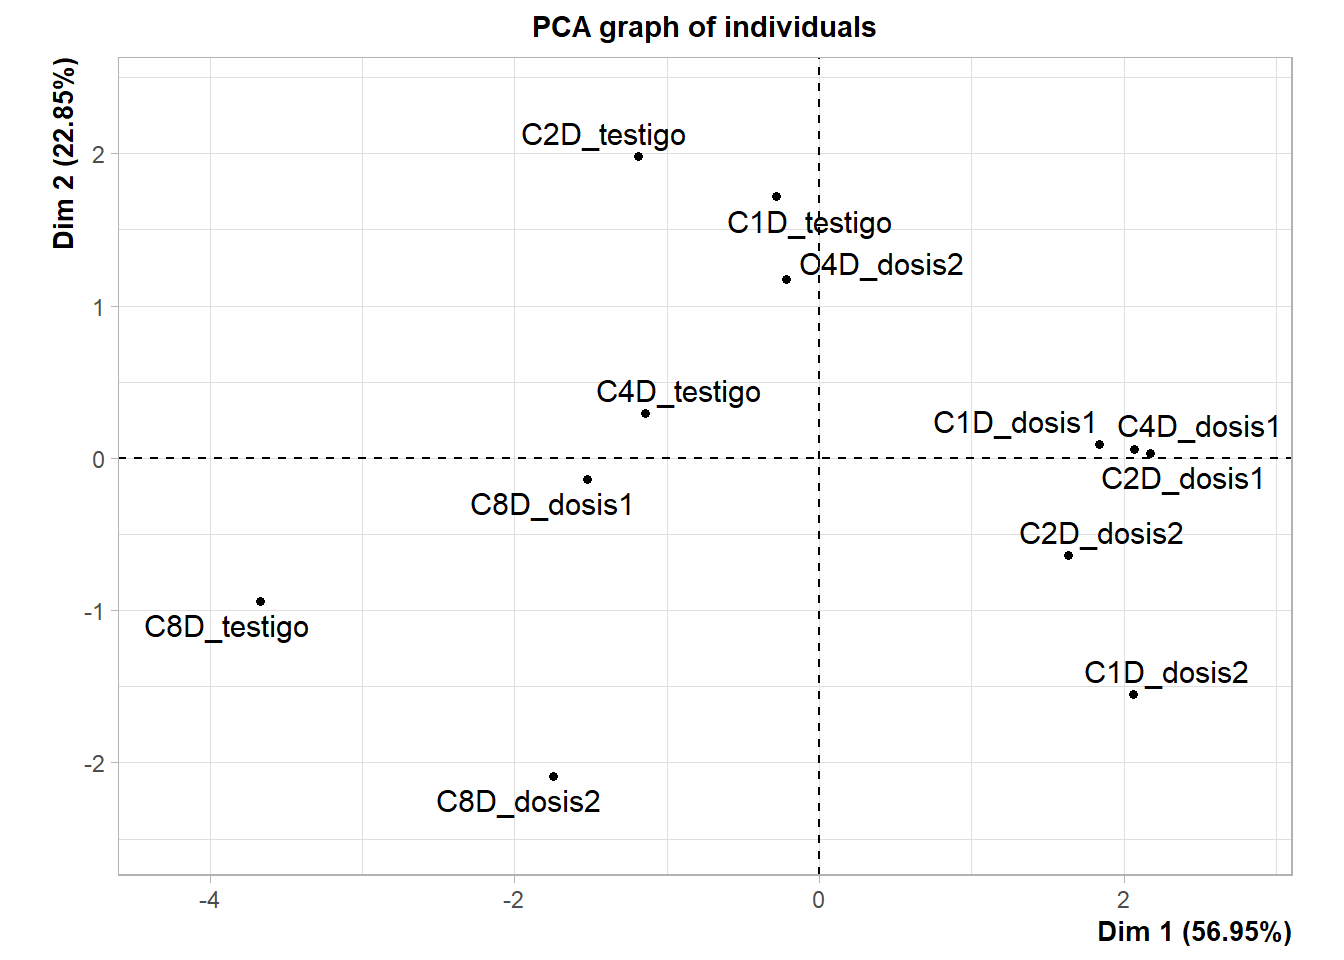
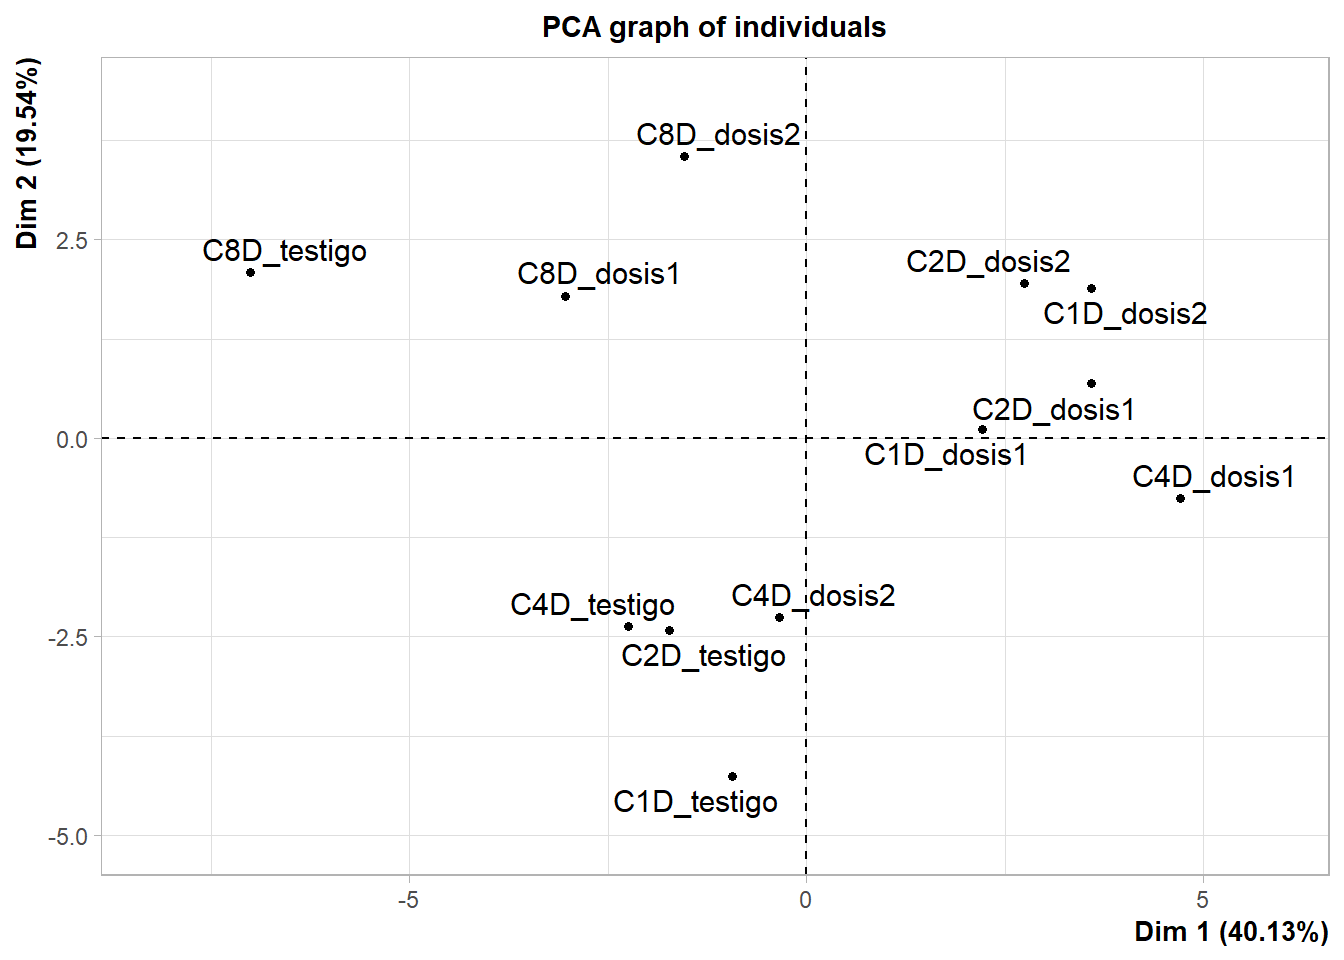
Análisis de datos PCA

diff --git a/index.html b/index.html
@@ -232,16 +232,37 @@ The following object is masked from 'package:emmeans':
 <span id="cb16-6"><a href="#cb16-6" aria-hidden="true" tabindex="-1"></a>fb <span class="ot">&lt;-</span> fb <span class="sc">%&gt;%</span> <span class="fu">mutate</span>(<span class="fu">across</span>(<span class="dv">1</span><span class="sc">:</span><span class="dv">3</span>, as.factor))</span>
 <span id="cb16-7"><a href="#cb16-7" aria-hidden="true" tabindex="-1"></a><span class="fu">str</span>(fb)</span></code><button title="Copy to Clipboard" class="code-copy-button"><i class="bi"></i></button></pre></div>
 <div class="cell-output cell-output-stdout">
-<pre><code>tibble [60 × 9] (S3: tbl_df/tbl/data.frame)
- $ riego          : Factor w/ 4 levels "C1D","C2D","C4D",..: 1 1 1 1 1 1 1 1 1 1 ...
- $ dosis          : Factor w/ 3 levels "dosis1","dosis2",..: 3 3 3 3 3 1 1 1 1 1 ...
- $ block          : Factor w/ 5 levels "I","II","III",..: 1 2 3 4 5 1 2 3 4 5 ...
- $ n_mazorcas     : num [1:60] 1.28 1.27 1.33 1.32 1.28 1.37 1.33 1.28 1.42 1.33 ...
- $ r_total        : num [1:60] 8952 8963 7263 8775 8842 ...
- $ e_agua         : num [1:60] 2 2 1.6 2 2 2.2 2.5 2.1 2.2 2.4 ...
- $ i_cosecha      : num [1:60] 51.4 69.6 45.7 64.9 53.2 63.8 40.2 59 67.2 54.2 ...
- $ c_transpiración: num [1:60] 257 258 255 317 284 ...
- $ i_foliar       : num [1:60] 3.75 4.12 3.71 3.74 3.66 4.48 7.25 4.08 4.02 4.65 ...</code></pre>
+<pre><code>tibble [60 × 30] (S3: tbl_df/tbl/data.frame)
+ $ riego              : Factor w/ 4 levels "C1D","C2D","C4D",..: 1 1 1 1 1 1 1 1 1 1 ...
+ $ dosis              : Factor w/ 3 levels "dosis1","dosis2",..: 3 3 3 3 3 1 1 1 1 1 ...
+ $ block              : Factor w/ 5 levels "I","II","III",..: 1 2 3 4 5 1 2 3 4 5 ...
+ $ a_planta           : num [1:60] 2.26 1.9 2.1 2.32 1.86 2.32 2.27 2.27 2.2 2.03 ...
+ $ a_foliar           : num [1:60] 5776 6346 5709 5755 5630 ...
+ $ n_hojas            : num [1:60] 14 13 14 16 14 15 15 14 14 14 ...
+ $ d_tallo            : num [1:60] 1.87 1.86 2 1.17 1.9 1.83 2.4 1.91 2.3 2.1 ...
+ $ m_seca total       : num [1:60] 234 233 236 189 212 ...
+ $ m_seca hoja        : num [1:60] 31.4 32.7 37.9 34.5 33.2 ...
+ $ m_seca tallo       : num [1:60] 31.4 19.9 33.7 18.7 29 ...
+ $ m_seca mazorca     : num [1:60] 138 146 108 111 124 ...
+ $ m_seca panoja      : num [1:60] 11.24 8.06 12.3 7.12 6.24 ...
+ $ m_seca panca       : num [1:60] 22.3 26.1 43.9 17.8 23.2 ...
+ $ n_plantas          : num [1:60] 5.79 4.86 5.32 5.79 5.79 5.56 5.56 5.56 5.51 5.56 ...
+ $ n_mazorcas         : num [1:60] 1.28 1.27 1.33 1.32 1.28 1.37 1.33 1.28 1.42 1.33 ...
+ $ p_ pmazorcas       : num [1:60] 160 170 125 129 145 ...
+ $ l_mazorca          : num [1:60] 18.2 18.7 16.9 17.8 16.3 ...
+ $ d_mazorca.         : num [1:60] 4.34 4.89 4.2 4.66 4.45 4.14 4.39 4.17 4.72 4.48 ...
+ $ pr_desgrane        : num [1:60] 86 83.9 80.1 87.5 81.3 ...
+ $ ps_semillas        : num [1:60] 28.6 29.7 29.6 28.4 29.5 ...
+ $ a_mazorca principal: num [1:60] 1.43 1.16 1.27 1.54 1.21 1.36 1.42 1.47 1.34 1.16 ...
+ $ r_primera          : num [1:60] 7270 8582 5705 7740 7812 ...
+ $ r_segunda          : num [1:60] 1425 248 1412 895 895 ...
+ $ r_descarte         : num [1:60] 257 134 147 140 136 ...
+ $ r_comercial        : num [1:60] 8695 8830 7116 8635 8707 ...
+ $ r_total            : num [1:60] 8952 8963 7263 8775 8842 ...
+ $ e_agua             : num [1:60] 2 2 1.6 2 2 2.2 2.5 2.1 2.2 2.4 ...
+ $ i_cosecha          : num [1:60] 51.4 69.6 45.7 64.9 53.2 63.8 40.2 59 67.2 54.2 ...
+ $ c_transpiración    : num [1:60] 257 258 255 317 284 ...
+ $ i_foliar           : num [1:60] 3.75 4.12 3.71 3.74 3.66 4.48 7.25 4.08 4.02 4.65 ...</code></pre>
 </div>
 </div>
 </section>
@@ -739,6 +760,10 @@ NOTE: If two or more means share the same grouping symbol,
 <span id="cb79-3"><a href="#cb79-3" aria-hidden="true" tabindex="-1"></a></span>
 <span id="cb79-4"><a href="#cb79-4" aria-hidden="true" tabindex="-1"></a><span class="fu">list</span>(var, ind) <span class="sc">%&gt;%</span></span>
 <span id="cb79-5"><a href="#cb79-5" aria-hidden="true" tabindex="-1"></a>  <span class="fu">plot_grid</span>(<span class="at">plotlist =</span> ., <span class="at">ncol =</span> <span class="dv">2</span>, <span class="at">labels =</span> <span class="st">"auto"</span>)</span></code><button title="Copy to Clipboard" class="code-copy-button"><i class="bi"></i></button></pre></div>
+<div class="cell-output cell-output-stderr">
+<pre><code>Warning: ggrepel: 5 unlabeled data points (too many overlaps). Consider
+increasing max.overlaps</code></pre>
+</div>
 <div class="cell-output-display">
 <div>
 <figure class="figure">
@@ -761,9 +786,10 @@ NOTE: If two or more means share the same grouping symbol,
 <p>Los colores permiten identificar rápidamente qué variables están relacionadas: - Variables que aumentan o disminuyen juntas tienen correlaciones positivas - Variables con comportamientos opuestos tienen correlaciones negativas</p>
 <p>Ayuda a identificar redundancia entre variables y patrones de respuesta conjunto antes de análisis más complejos como PCA.</p>
 <div class="cell">
-<div class="sourceCode cell-code" id="cb80"><pre class="sourceCode r code-with-copy"><code class="sourceCode r"><span id="cb80-1"><a href="#cb80-1" aria-hidden="true" tabindex="-1"></a>fb <span class="sc">%&gt;%</span></span>
-<span id="cb80-2"><a href="#cb80-2" aria-hidden="true" tabindex="-1"></a>  dplyr<span class="sc">::</span><span class="fu">select</span>(<span class="fu">where</span>(is.numeric)) <span class="sc">%&gt;%</span></span>
-<span id="cb80-3"><a href="#cb80-3" aria-hidden="true" tabindex="-1"></a>  <span class="fu">ggcorr</span>(<span class="at">label =</span> <span class="cn">TRUE</span>)</span></code><button title="Copy to Clipboard" class="code-copy-button"><i class="bi"></i></button></pre></div>
+<div class="sourceCode cell-code" id="cb81"><pre class="sourceCode r code-with-copy"><code class="sourceCode r"><span id="cb81-1"><a href="#cb81-1" aria-hidden="true" tabindex="-1"></a>fb <span class="sc">%&gt;%</span></span>
+<span id="cb81-2"><a href="#cb81-2" aria-hidden="true" tabindex="-1"></a>  dplyr<span class="sc">::</span><span class="fu">select</span>(<span class="fu">where</span>(is.numeric)) <span class="sc">%&gt;%</span></span>
+<span id="cb81-3"><a href="#cb81-3" aria-hidden="true" tabindex="-1"></a>  <span class="fu">ggcorr</span>(<span class="at">label =</span> <span class="cn">FALSE</span>) <span class="sc">+</span></span>
+<span id="cb81-4"><a href="#cb81-4" aria-hidden="true" tabindex="-1"></a>  <span class="fu">theme_minimal</span>(<span class="at">base_size =</span> <span class="dv">8</span>)</span></code><button title="Copy to Clipboard" class="code-copy-button"><i class="bi"></i></button></pre></div>
 <div class="cell-output-display">
 <div>
 <figure class="figure">
